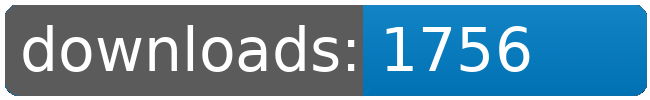
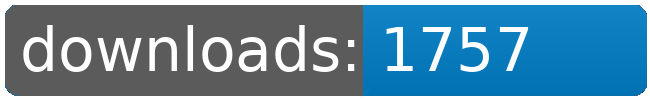
dl log written

Changed region(s): [[0.7692, 0.24, 0.8308, 0.72]]

diff --git a/README.md b/README.md
@@ -21,8 +21,8 @@
 		<td>1395</td>
 		<td>1432</td>
 		<td>1466</td>
-		<td>1497</td>
-		<td>+ 31</td>
+		<td>1498</td>
+		<td>+ 32</td>
 	</tr>
 	<tr>
 		<td>Factory.Outlets</td>
@@ -76,8 +76,8 @@
 		<td>1651</td>
 		<td>1693</td>
 		<td>1727</td>
-		<td>1756</td>
-		<td>+ 29</td>
+		<td>1757</td>
+		<td>+ 30</td>
 	</tr>
 	<tr>
 		<td>Solar.Sails</td>
@@ -109,8 +109,8 @@
 		<td></td>
 		<td></td>
 		<td></td>
-		<td>12301</td>
-		<td>233</td>
+		<td>12303</td>
+		<td>235</td>
 	</tr>
 </table>
 </sub></sup>
@@ -146,8 +146,8 @@
 		<td>1651</td>
 		<td>1693</td>
 		<td>1727</td>
-		<td>1756</td>
-		<td>+ 29</td>
+		<td>1757</td>
+		<td>+ 30</td>
 	</tr>
 	<tr>
 		<td>Bunsen.Burner</td>
@@ -157,8 +157,8 @@
 		<td>1395</td>
 		<td>1432</td>
 		<td>1466</td>
-		<td>1497</td>
-		<td>+ 31</td>
+		<td>1498</td>
+		<td>+ 32</td>
 	</tr>
 	<tr>
 		<td>Korunak.Defense.Drones</td>
@@ -223,8 +223,8 @@
 		<td></td>
 		<td></td>
 		<td></td>
-		<td>12301</td>
-		<td>233</td>
+		<td>12303</td>
+		<td>235</td>
 	</tr>
 </table>
 </sub></sup>
